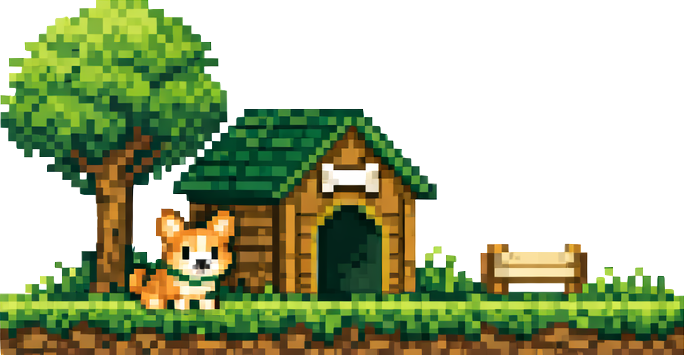
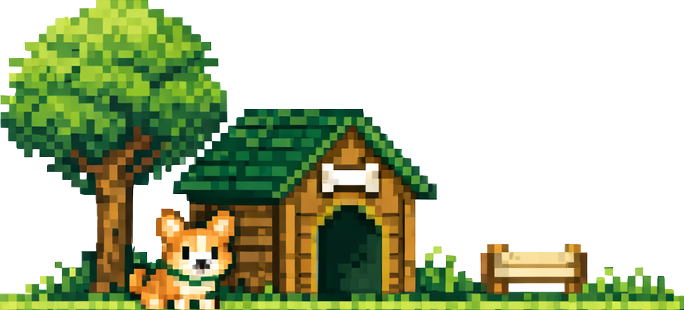
Corgi updates again

diff --git a/src/themes/corgi/JoinScreenDecoration.tsx b/src/themes/corgi/JoinScreenDecoration.tsx
@@ -1,15 +1,20 @@
 import Image from "next/image";
 import styled from "styled-components";
 import backgroundImage from "./corgi-decoration.png";
+import dirtImage from "./dirt.png";
 
 const Container = styled.div`
   position: relative;
+  background: url(${dirtImage.src}) repeat-x bottom left;
+  padding-bottom: 40px;
+  overflow: hidden;
 `;
 
 const BackgroundImage = styled(Image)`
   position: relative;
   display: block;
-  width: 100%;
+  max-width: 400px;
+  height: 170px;
 `;
 
 export function JoinScreenDecoration(): JSX.Element {